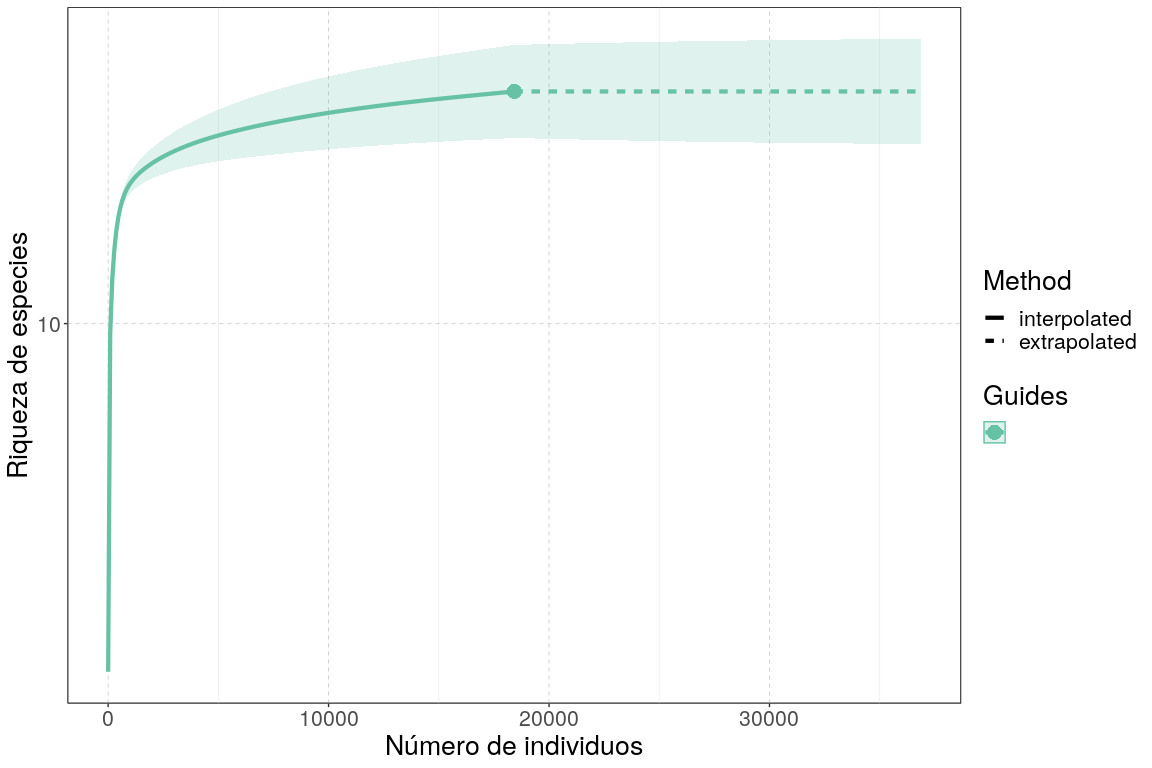
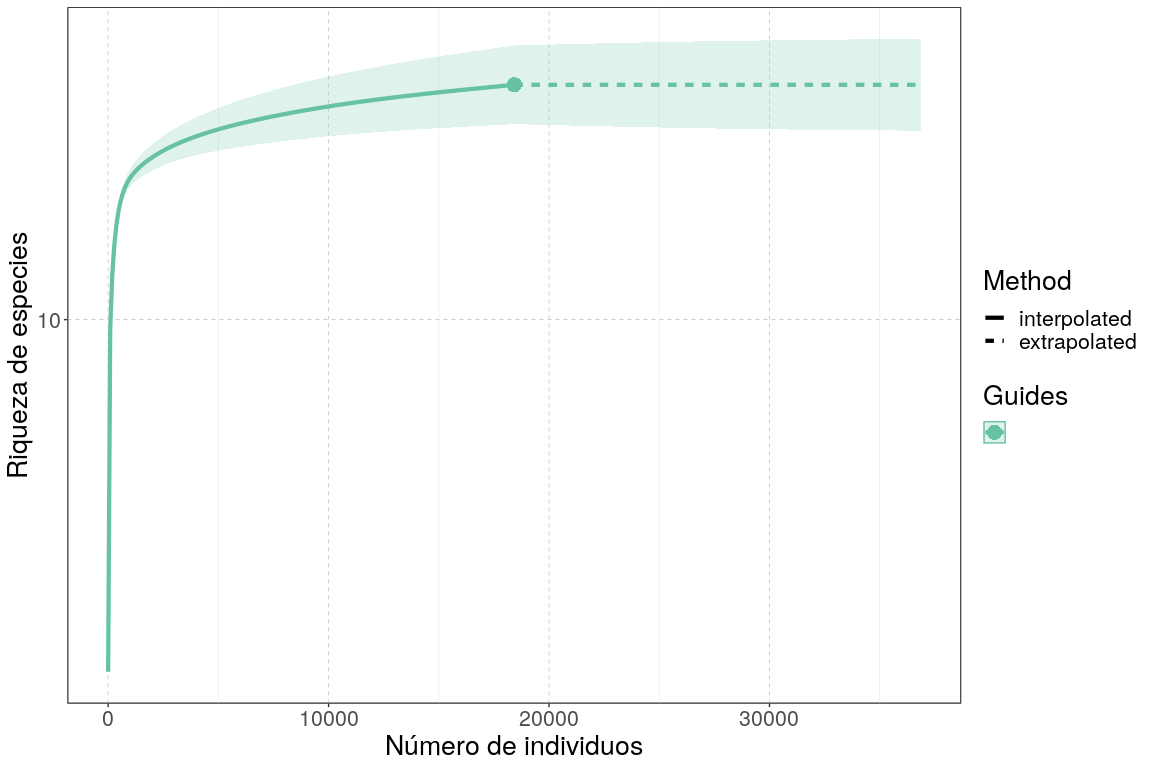
Typo corrected in diversity analysis script number 2

Changed region(s): [[0.0938, 0.0938, 0.8125, 0.2812], [0.0312, 0.4062, 0.0625, 0.4375]]

diff --git a/di_1_analisis_de_diversidad_diversidad_alpha.md b/di_1_analisis_de_diversidad_diversidad_alpha.md
@@ -59,14 +59,14 @@ library(RColorBrewer)
 library(tidyverse)
 ```
 
-    ## ── Attaching packages ─────────────────────────────── tidyverse 1.2.1 ──
+    ## ── Attaching packages ──────────────────────────────── tidyverse 1.2.1 ──
 
     ## ✓ ggplot2 3.3.2     ✓ purrr   0.3.4
     ## ✓ tibble  3.0.3     ✓ dplyr   0.8.3
     ## ✓ tidyr   1.0.0     ✓ stringr 1.4.0
     ## ✓ readr   1.3.1     ✓ forcats 0.4.0
 
-    ## ── Conflicts ────────────────────────────────── tidyverse_conflicts() ──
+    ## ── Conflicts ─────────────────────────────────── tidyverse_conflicts() ──
     ## x dplyr::arrange()   masks plyr::arrange()
     ## x purrr::compact()   masks plyr::compact()
     ## x dplyr::count()     masks plyr::count()
@@ -360,13 +360,12 @@ especies más abundantes**.
 
 Bajo esta notación:
 
-  - La entropía 2 de Renyi es la equidad de Pielou (denominada también
-    equidad de Shannon) equivale a *J=H<sub>1</sub>/H<sub>0</sub>*, que
-    es a fin de cuentas una ratio.
+  - La equidad de Pielou (denominada también equidad de Shannon)
+    equivale a *J=H<sub>1</sub>/H<sub>0</sub>*, que es a fin de cuentas
+    una ratio.
 
-Usando la misma aproximación basada en ratios, Hill propuso también
-otras que, a diferencia *J*, no están afectadas por la riqueza (es
-decir, no sólo propuso los números de diversidad, sino también ratios):
+Usando la misma aproximación, Hill propuso también otras ratios que, a
+diferencia de lo que ocurre con *J*, no están afectadas por la riqueza:
 
   - *E<sub>1</sub>=N<sub>1</sub>/N<sub>0</sub>* a la cual el propio Hill
     denominó como su versión de la **equidad de Shannon** y
@@ -871,17 +870,17 @@ mi_fam_combinada_chao$no_asintoticos_rarefaccion_extrapolacion
     ## 
     ## $iNextEst: diversity estimates with rarefied and extrapolated samples.
     ##         m       method order     qD qD.LCL qD.UCL    SC SC.LCL SC.UCL
-    ## 1       1 interpolated     0  1.000  1.000  1.000 0.374  0.366  0.382
-    ## 100  9213 interpolated     0 15.375 14.465 16.284 1.000  1.000  1.000
-    ## 200 18426     observed     0 16.000 14.796 17.204 1.000  1.000  1.000
-    ## 300 27593 extrapolated     0 16.000 14.694 17.306 1.000  1.000  1.000
-    ## 400 36852 extrapolated     0 16.000 14.643 17.357 1.000  1.000  1.000
+    ## 1       1 interpolated     0  1.000  1.000  1.000 0.374  0.366  0.381
+    ## 100  9213 interpolated     0 15.375 14.641 16.108 1.000  1.000  1.000
+    ## 200 18426     observed     0 16.000 14.995 17.005 1.000  1.000  1.000
+    ## 300 27593 extrapolated     0 16.000 14.884 17.116 1.000  1.000  1.000
+    ## 400 36852 extrapolated     0 16.000 14.828 17.172 1.000  1.000  1.000
     ## 
     ## $AsyEst: asymptotic diversity estimates along with related statistics.
     ##                   Observed Estimator Est_s.e. 95% Lower 95% Upper
     ## Species Richness    16.000    16.000    0.529    16.000    17.493
-    ## Shannon diversity    4.560     4.562    0.042     4.560     4.643
-    ## Simpson diversity    2.677     2.677    0.025     2.677     2.726
+    ## Shannon diversity    4.560     4.562    0.044     4.560     4.647
+    ## Simpson diversity    2.677     2.677    0.028     2.677     2.731
     ## 
     ## NOTE: Only show five estimates, call iNEXT.object$iNextEst. to show complete output.
 
@@ -1108,40 +1107,40 @@ mi_fam_k3_chao$no_asintoticos_rarefaccion_extrapolacion
     ## $iNextEst: diversity estimates with rarefied and extrapolated samples.
     ## $`1`
     ##         m       method order   qD qD.LCL qD.UCL    SC SC.LCL SC.UCL
-    ## 1       1 interpolated     0  1.0  1.000  1.000 0.275  0.264  0.285
-    ## 100  2767 interpolated     0 14.5 13.685 15.315 1.000  0.999  1.000
-    ## 200  5535     observed     0 15.0 14.010 15.990 1.000  1.000  1.000
-    ## 300  8289 extrapolated     0 15.0 13.818 16.182 1.000  1.000  1.000
-    ## 400 11070 extrapolated     0 15.0 13.721 16.279 1.000  1.000  1.000
+    ## 1       1 interpolated     0  1.0  1.000  1.000 0.275  0.265  0.285
+    ## 100  2767 interpolated     0 14.5 13.622 15.378 1.000  0.999  1.000
+    ## 200  5535     observed     0 15.0 13.949 16.051 1.000  1.000  1.000
+    ## 300  8289 extrapolated     0 15.0 13.780 16.220 1.000  1.000  1.000
+    ## 400 11070 extrapolated     0 15.0 13.695 16.305 1.000  1.000  1.000
     ## 
     ## $`2`
     ##        m       method order     qD qD.LCL qD.UCL    SC SC.LCL SC.UCL
     ## 1      1 interpolated     0  1.000  1.000  1.000 0.176  0.165  0.186
-    ## 100  616 interpolated     0 14.228 13.133 15.323 0.998  0.997  1.000
-    ## 200 1233     observed     0 15.000 13.316 16.684 0.999  0.998  1.001
-    ## 300 1846 extrapolated     0 15.315 13.171 17.459 1.000  0.999  1.000
-    ## 400 2466 extrapolated     0 15.432 13.038 17.826 1.000  0.999  1.000
+    ## 100  616 interpolated     0 14.228 13.230 15.226 0.998  0.997  0.999
+    ## 200 1233     observed     0 15.000 13.448 16.552 0.999  0.998  1.001
+    ## 300 1846 extrapolated     0 15.315 13.248 17.381 1.000  0.999  1.001
+    ## 400 2466 extrapolated     0 15.432 13.059 17.805 1.000  0.999  1.000
     ## 
     ## $`3`
     ##         m       method order     qD qD.LCL qD.UCL   SC SC.LCL SC.UCL
-    ## 1       1 interpolated     0  1.000  1.000  1.000 0.47  0.461  0.479
-    ## 100  5829 interpolated     0 14.496 13.916 15.076 1.00  1.000  1.000
-    ## 200 11658     observed     0 15.000 14.093 15.907 1.00  1.000  1.000
-    ## 300 17458 extrapolated     0 15.000 14.093 15.907 1.00  1.000  1.000
-    ## 400 23316 extrapolated     0 15.000 14.093 15.907 1.00  1.000  1.000
+    ## 1       1 interpolated     0  1.000   1.00  1.000 0.47  0.461  0.479
+    ## 100  5829 interpolated     0 14.496  13.81 15.182 1.00  1.000  1.000
+    ## 200 11658     observed     0 15.000  14.05 15.950 1.00  1.000  1.000
+    ## 300 17458 extrapolated     0 15.000  14.05 15.950 1.00  1.000  1.000
+    ## 400 23316 extrapolated     0 15.000  14.05 15.950 1.00  1.000  1.000
     ## 
     ## 
     ## $AsyEst: asymptotic diversity estimates along with related statistics.
     ##   Site         Diversity Observed Estimator  s.e.    LCL    UCL
     ## 1    1  Species richness   15.000    15.000 0.484 15.000 16.241
-    ## 2    1 Shannon diversity    5.731     5.738 0.095  5.731  5.924
-    ## 3    1 Simpson diversity    3.638     3.640 0.068  3.638  3.773
+    ## 2    1 Shannon diversity    5.731     5.738 0.098  5.731  5.930
+    ## 3    1 Simpson diversity    3.638     3.640 0.067  3.638  3.770
     ## 4    2  Species richness   15.000    15.500 1.322 15.030 23.436
-    ## 5    2 Shannon diversity    7.321     7.366 0.177  7.321  7.712
-    ## 6    2 Simpson diversity    5.676     5.698 0.184  5.676  6.058
+    ## 5    2 Shannon diversity    7.321     7.366 0.173  7.321  7.705
+    ## 6    2 Simpson diversity    5.676     5.698 0.174  5.676  6.040
     ## 7    3  Species richness   15.000    15.000 0.483 15.000 16.347
-    ## 8    3 Shannon diversity    3.640     3.643 0.047  3.640  3.735
-    ## 9    3 Simpson diversity    2.127     2.127 0.025  2.127  2.176
+    ## 8    3 Shannon diversity    3.640     3.643 0.045  3.640  3.731
+    ## 9    3 Simpson diversity    2.127     2.127 0.022  2.127  2.171
     ## 
     ## NOTE: Only show five estimates, call iNEXT.object$iNextEst. to show complete output.
 
